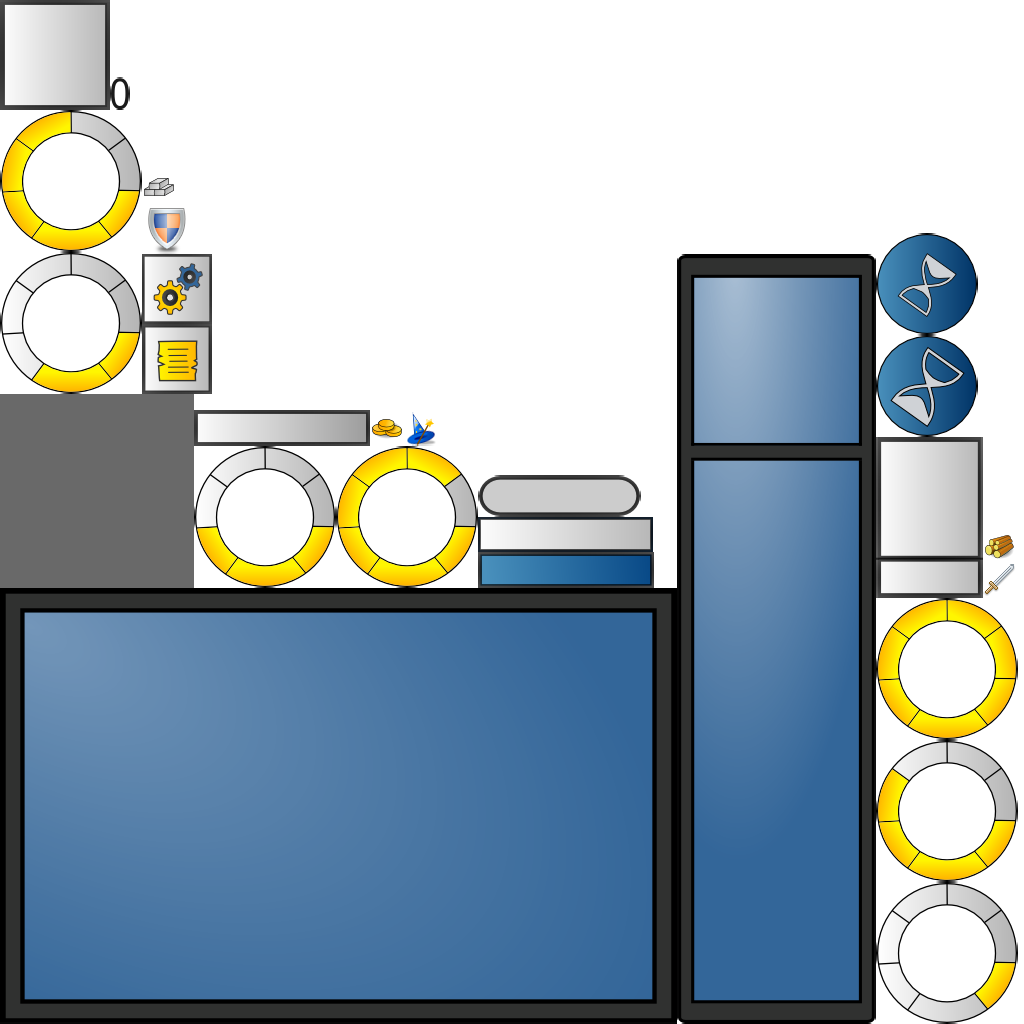
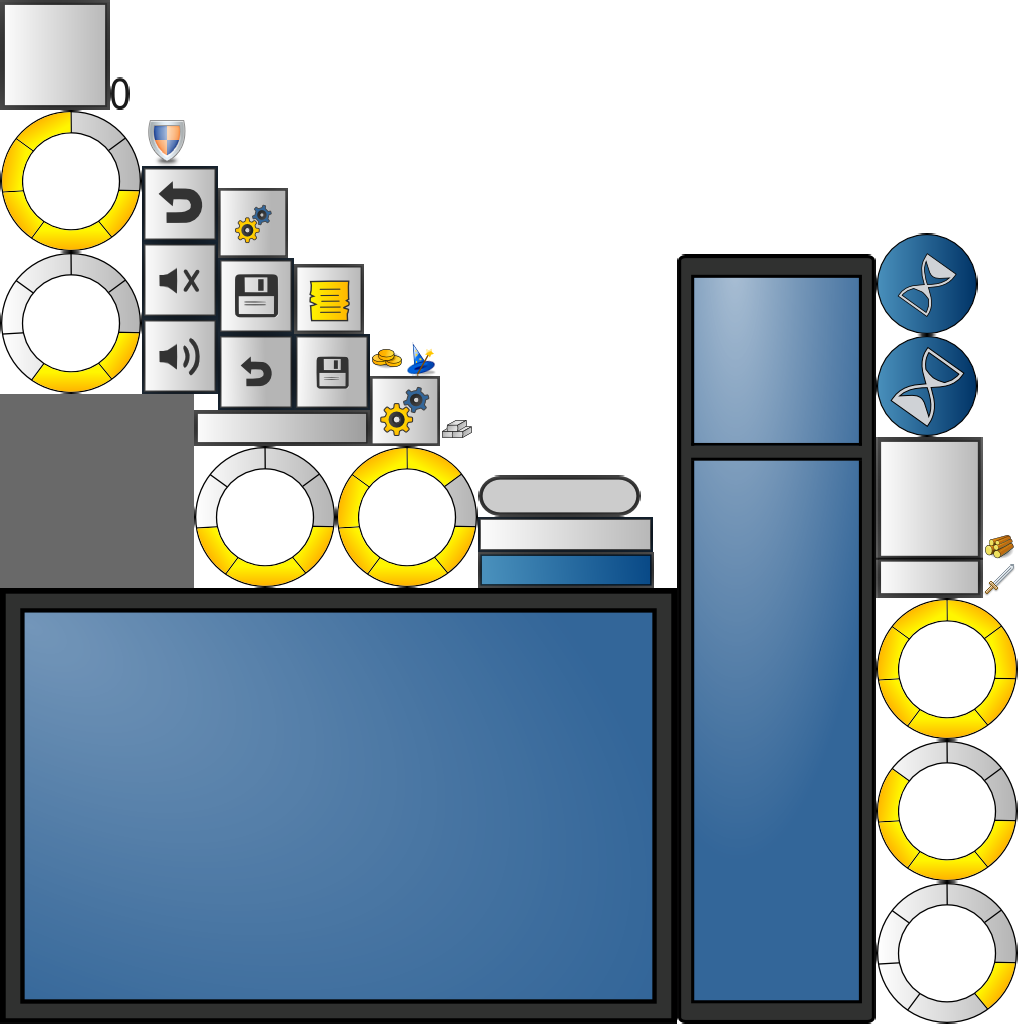
Options panel.

Changed region(s): [[0.125, 0.0938, 0.4688, 0.4375]]

diff --git a/medieval-sword/src/com/modules/map/ui/OptionsPanel.java b/medieval-sword/src/com/modules/map/ui/OptionsPanel.java
@@ -1,0 +1,156 @@
+package com.modules.map.ui;
+
+import com.badlogic.gdx.scenes.scene2d.Actor;
+import com.badlogic.gdx.scenes.scene2d.Group;
+import com.badlogic.gdx.scenes.scene2d.ui.Button;
+import com.badlogic.gdx.scenes.scene2d.ui.ClickListener;
+import com.badlogic.gdx.scenes.scene2d.ui.Image;
+import com.badlogic.gdx.scenes.scene2d.ui.Label;
+import com.game.Assets;
+import com.game.Constants;
+import com.modules.battle.BattleExitAlert;
+import com.modules.map.MapConstants;
+import com.modules.map.MapController;
+import com.utils.Vector2i;
+
+public class OptionsPanel extends Group {
+
+	final static int SIZE_W = 440;
+	final static int SIZE_H = 210;
+	final int BUTTON_SIZE = 74;
+
+	Image background;
+	Image music_on, music_off;
+
+	String options_msg [] = { "OPTIONS", "OPCIONES" };
+
+	public OptionsPanel() {
+		width = SIZE_W;
+		height = SIZE_H;
+
+		this.x = ( Constants.SIZE_W - width ) / 2 + MapConstants.HUD_WIDTH / 2;
+		this.y = ( Constants.SIZE_H - height ) / 2;
+
+		createBackgroundImage();
+		createTitle();
+		createMusicOption();
+		createSaveOption();
+		createReturnOption();
+		createExitOption();
+	}
+
+	private void createBackgroundImage() {
+		background = new Image( Assets.getTextureRegion( "backgroundArmy" ) );
+		background.width = width;
+		background.height = height;
+		background.x = 0;
+		background.y = 0;
+
+		background.setClickListener( new ClickListener() {
+			public void click(Actor actor, float x, float y) {}
+		});
+
+		this.addActor( background );
+	}
+
+	private void createTitle() {
+		Label title_label = new Label( options_msg[ Constants.LANGUAGE_CODE ], Assets.skin );
+		title_label.x = background.x + ( SIZE_W - title_label.width ) / 2;
+		title_label.y = background.y + SIZE_H - 70;
+
+		addActor( title_label );
+	}
+
+	private void createMusicOption() {
+		music_on = new Image( Assets.getFrame( "btnMusic", 1 ) );
+		music_on.x = background.x + 40;
+		music_on.y = background.y + 40;
+		music_on.width = BUTTON_SIZE;
+		music_on.height = BUTTON_SIZE;
+
+		music_off = new Image( Assets.getFrame( "btnMusic", 2 ) );
+		music_off.x = background.x + 40;
+		music_off.y = background.y + 40;
+		music_off.width = BUTTON_SIZE;
+		music_off.height = BUTTON_SIZE;
+
+		music_on.setClickListener( new ClickListener() {
+			public void click(Actor actor, float x, float y) {
+				Assets.pauseMusic( MapConstants.MUSIC_MAP );
+				Constants.MUSIC_ON = false;
+				removeActor( music_on );
+				addActor( music_off );
+			}
+		});
+
+		music_off.setClickListener( new ClickListener() {
+			public void click(Actor actor, float x, float y) {
+				Constants.MUSIC_ON = true;
+				Assets.playMusic( MapConstants.MUSIC_MAP );
+				removeActor( music_off );
+				addActor( music_on );
+			}
+		});
+
+		addActor( music_on );
+	}
+
+	private void createSaveOption() {
+		Button save_btn = new Button(
+			Assets.getFrame( "btnSave", 1 ),
+			Assets.getFrame( "btnSave", 2 ) );
+
+		save_btn.x = background.x + 40 + ( BUTTON_SIZE + 20 ) * 1;
+		save_btn.y = background.y + 40;
+		save_btn.width = BUTTON_SIZE;
+		save_btn.height = BUTTON_SIZE;
+
+		addActor( save_btn );
+	}
+
+	private void createReturnOption() {
+		Button return_btn = new Button(
+			Assets.getFrame( "btnReturn", 1 ),
+			Assets.getFrame( "btnReturn", 2 ) );
+
+		return_btn.x = background.x + 40 + ( BUTTON_SIZE + 20 ) * 3;
+		return_btn.y = background.y + 40;
+		return_btn.width = BUTTON_SIZE;
+		return_btn.height = BUTTON_SIZE;
+
+		return_btn.setClickListener( new ClickListener() {
+			public void click(Actor actor, float x, float y) {
+				removePanel();
+			}
+		});
+
+		addActor( return_btn );
+	}
+
+	private void createExitOption() {
+		Button exit_btn = new Button(
+			Assets.getFrame( "btnExit", 1 ),
+			Assets.getFrame( "btnExit", 2 ) );
+
+		exit_btn.x = background.x + 40 + ( BUTTON_SIZE + 20 ) * 2;
+		exit_btn.y = background.y + 40;
+		exit_btn.width = BUTTON_SIZE;
+		exit_btn.height = BUTTON_SIZE;
+
+		exit_btn.setClickListener( new ClickListener() {
+			public void click(Actor actor, float x, float y) {
+				BattleExitAlert alert = new BattleExitAlert(
+					new Vector2i( Constants.SIZE_W - Constants.HUD_WIDTH, Constants.SIZE_H),
+					new Vector2i( Constants.HUD_WIDTH, 0 ) );
+				alert.show( stage );
+			}
+		});
+
+		addActor( exit_btn );
+	}
+
+	public void removePanel() {
+		this.remove();
+		MapController.addEvent( MapConstants.CLOSE_PANEL, this );
+	}
+}

diff --git a/medieval-sword/src/com/modules/battle/BattleExitAlert.java b/medieval-sword/src/com/modules/battle/BattleExitAlert.java
@@ -13,6 +13,7 @@ import com.badlogic.gdx.scenes.scene2d.ui.Image;
 import com.badlogic.gdx.scenes.scene2d.ui.Label;
 import com.game.Assets;
 import com.game.Constants;
+import com.utils.Vector2i;
 
 /**
  * Represent options menu in battle screen.
@@ -33,13 +34,13 @@ public class BattleExitAlert extends Group {
 
 	protected Map<String, String> alert_msg;
 
-	public BattleExitAlert() {
+	public BattleExitAlert( Vector2i window_size, Vector2i window_position ) {
 		alert_msg = new HashMap<String, String>();
 		alert_msg.put("es", "¿Seguro que quiere salir?");
 		alert_msg.put("en", "Are you sure you want to exit?");
 
 		createAlphaImage();
-		createBackgroundImage();
+		createBackgroundImage( window_size, window_position );
 		createAlertLabel();
 		createExitButton();
 		createResumeButton();
@@ -58,12 +59,12 @@ public class BattleExitAlert extends Group {
 		addActor( alpha );
 	}
 
-	private void createBackgroundImage() {
+	private void createBackgroundImage( Vector2i window_size, Vector2i window_position ) {
 		background = new Image( Assets.getTextureRegion( "battlePanelBackground" ) );
 		background.height = SIZE_H;
 		background.width = SIZE_W;
-		background.x = ( Constants.SIZE_W - SIZE_W ) / 2;
-		background.y = ( Constants.SIZE_H - SIZE_H ) / 2;
+		background.x = window_position.x + ( window_size.x - SIZE_W ) / 2;
+		background.y = window_position.y + ( window_size.y - SIZE_H ) / 2;
 		addActor( background );
 	}
 
@@ -116,5 +117,4 @@ public class BattleExitAlert extends Group {
 		stage.removeActor( this );
 		BattleController.mutex = false;
 	}
-
 }

diff --git a/medieval-sword/src/com/game/Assets.java b/medieval-sword/src/com/game/Assets.java
@@ -129,26 +129,26 @@ public class Assets {
 	}
 
 	public static void playMusic( String name ) {
-		if( music.containsKey( name ) ) {
+		if( Constants.MUSIC_ON && music.containsKey( name ) ) {
 			music.get( name ).setLooping( true );
 			music.get( name ).play();
 		}
 	}
 
 	public static void pauseMusic( String name ) {
-		if( music.containsKey( name ) ) {
+		if( Constants.MUSIC_ON && music.containsKey( name ) ) {
 			music.get( name ).pause();
 		}
 	}
 
 	public static void setMusicVolume( String name, float volume ) {
-		if( music.containsKey( name ) ) {
+		if( Constants.MUSIC_ON && music.containsKey( name ) ) {
 			music.get( name ).setVolume( volume );
 		}
 	}
 
 	public static void stopMusic( String name ) {
-		if( music.containsKey( name ) )
+		if( Constants.MUSIC_ON && music.containsKey( name ) )
 			music.get( name ).stop();
 	}
 

diff --git a/medieval-sword/src/com/modules/map/ui/MapUserInterface.java b/medieval-sword/src/com/modules/map/ui/MapUserInterface.java
@@ -15,9 +15,9 @@ import com.modules.map.terrain.Terrain;
 public class MapUserInterface {
 
 	HUD hud;
-	HeroPanel army_panel;
 	Stage stage;
 	Image alpha;
+	OptionsPanel options_panel;
 
 	public MapUserInterface( Stage stage ) {
 		this.stage = stage;
@@ -32,6 +32,8 @@ public class MapUserInterface {
 		alpha.setClickListener( new ClickListener() {
 			public void click(Actor actor, float x, float y) {}
 		});
+
+		options_panel = new OptionsPanel();
 	}
 
 	public void createHUD( Player player, Terrain terrain ) {
@@ -63,5 +65,15 @@ public class MapUserInterface {
 
 	public void enableAll() {
 		stage.removeActor(alpha);
+	}
+
+	public void showOptionsPanel() {
+		disableAll();
+		stage.addActor( options_panel );
+	}
+
+	public void hideOptionsPanel() {
+		enableAll();
+		stage.removeActor( options_panel );
 	}
 }

diff --git a/medieval-sword/src/com/modules/map/MapConstants.java b/medieval-sword/src/com/modules/map/MapConstants.java
@@ -23,7 +23,8 @@ public class MapConstants {
 	public static final int SHOW_UNIT      		= 14;
 	public static final int CLOSE_UNIT          = 15;
 	public static final int BUY_UNITS			= 16;
-	public static final int CLOSE_PANEL         = 17;
+	public static final int SHOW_OPTIONS        = 17;
+	public static final int CLOSE_PANEL         = 18;
 
 	/* MAP SQUARES STATUS */
 	public static final int FREE = 0;
@@ -63,6 +64,6 @@ public class MapConstants {
 	public static final int SQUARE_TERRAIN_H = Constants.SIZE_H / 8;
 	public static final int SQUARE_TERRAIN_3D = MapConstants.SQUARE_TERRAIN_H / 2;
 
-	/* SOUNDS NAMES */
+	/* MUSIC */
 	public static final String MUSIC_MAP = "map_music";
 }

diff --git a/medieval-sword/src/com/game/Constants.java b/medieval-sword/src/com/game/Constants.java
@@ -15,8 +15,13 @@ public class Constants {
 	public static final int TOP = 2;
 	public static final int DOWN = 3;
 
+	/* LANGUAGES */
+	public static final int LANGUAGE_EN = 0;
+	public static final int LANGUAGE_ES = 1;
+
 	/* GENERAL */
 	public static final String LANGUAGE = "en";
+	public static final int LANGUAGE_CODE = LANGUAGE_EN;
 	public static final int UNDEFINED = -1;
 	public static final float FONT1_WIDTH = 7.7f;
 	public static final int FONT1_HEIGHT = 8;
@@ -57,5 +62,5 @@ public class Constants {
 
 	/* GAME */
 	public static final int WEEK_DAYS = 7;
-
+	public static boolean MUSIC_ON = true;
 }

diff --git a/medieval-sword/src/com/modules/map/ui/HUD.java b/medieval-sword/src/com/modules/map/ui/HUD.java
@@ -121,8 +121,8 @@ public class HUD extends Group {
 
 	private void loadButtons() {
 		system = new Button(
-				Assets.getTextureRegion( "options" ),
-				Assets.getTextureRegion( "number" ) );
+			Assets.getFrame( "btnOptions", 1 ),
+			Assets.getFrame( "btnOptions", 2 ) );
 
 		system.height = BUTTONS_H;
 		system.width = BUTTONS_W;
@@ -131,7 +131,7 @@ public class HUD extends Group {
 
 		system.setClickListener( new ClickListener() {
 			public void click(Actor actor, float x, float y) {
-				System.out.println("System");
+				MapController.addEvent( MapConstants.SHOW_OPTIONS, null );
 			}
 		});
 

diff --git a/medieval-sword/src/com/modules/battle/BattleController.java b/medieval-sword/src/com/modules/battle/BattleController.java
@@ -68,7 +68,9 @@ public class BattleController {
 	private void createBattleElements() {
 		board = new Board( stage );
 		panel = new BattlePanel();
-		menu  = new BattleExitAlert();
+		menu  = new BattleExitAlert(
+			new Vector2i( Constants.SIZE_W, Constants.SIZE_H),
+			new Vector2i( 0, 0 ) );
 
 		stage.addActor( panel );
 

diff --git a/medieval-sword/src/com/modules/map/MapController.java b/medieval-sword/src/com/modules/map/MapController.java
@@ -164,6 +164,10 @@ public class MapController {
 			case MapConstants.TURN:
 				passTurn();
 				break;
+			case MapConstants.SHOW_OPTIONS:
+				MapInputProcessor.activatePanel();
+				ui.showOptionsPanel();
+				break;
 			case MapConstants.CLOSE_PANEL:
 				closePanel();
 				break;
